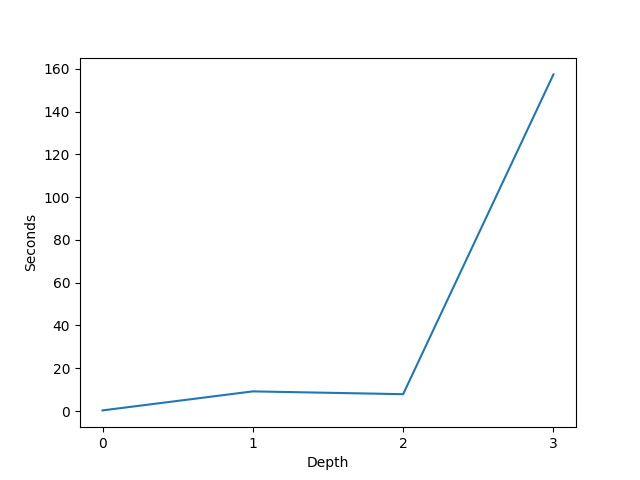
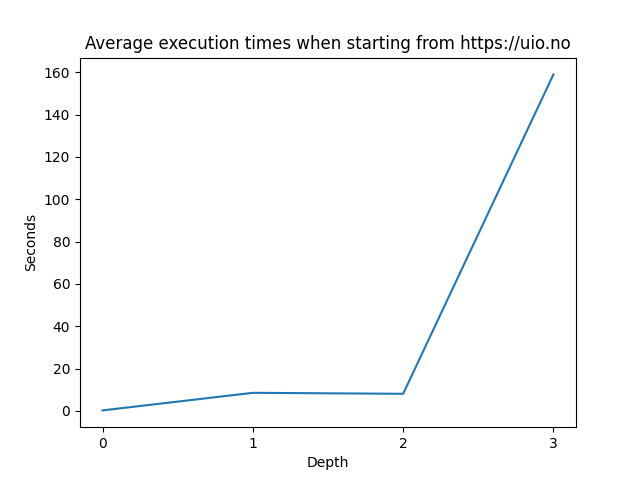
tests

diff --git a/Scraper.py b/Scraper.py
@@ -5,9 +5,7 @@ import lxml.html
 from bs4 import BeautifulSoup
 
 class Scraper:
-    def __init__(self, url: str, depth: int):
-        self.url = url # Url to start scraping at
-        self.depth = depth # Depth of urls to scrape
+    def __init__(self):
         self.common_words = []
         self.urls = []
         self.phone_numbers = []
@@ -16,8 +14,8 @@ class Scraper:
         self.visited_urls = []
         
     
-    def start_scraping(self):
-        self.scrape(self.url, self.depth)
+    def start_scraping(self, url: str, depth: int):
+        self.scrape(url, depth)
     
     def write_to_file(self, input):
         for item in input:
@@ -64,9 +62,6 @@ class Scraper:
             return
 
         content = res.text
-        if (len(content) > 200000):
-            # Site is too big
-            return
         soup = BeautifulSoup(content, features='lxml')
         
         urls = self.find_urls(soup)
@@ -85,50 +80,66 @@ class Scraper:
         else:
             for u in urls:
                 self.scrape(u, current_depth - 1) # Recursively scrape urls when depth > 0
-    
-    def custom_search(self, content: str):
-        result = []
-        for r in self.custom_searches:
-            regex = re.compile(r)
-            result.append((r, regex.findall(content)))
+
+    def find_elements_by_tag(self, url: str, tag: str):
+        # Returns all matching tags
+        result = self.fetch_html(url)
+        if result:
+            soup = BeautifulSoup(result.text, features='lxml')
+            result = soup.find_all(tag)
         return result
     
-    def custom_search_soup(self,soup: BeautifulSoup, search_param: str):
-        # This method finds all occurances of html tag specified by search_param
-        result = soup.find_all(search_param)
+    def find_element_by_id(self, url: str, id: str):
+        result = self.fetch_html(url)
+        if result:
+            soup = BeautifulSoup(result.text, features='lxml')
+            result = soup.find(id=id).prettify()
         return result
+    
+    def find_tag(self, url: str, tag: str):
+        # Returns the first matching tag
+        result = self.fetch_html(url)
+        if result:
+            soup = BeautifulSoup(result.text, features='lxml')
+            result = soup.find(tag)
+        return result
+    
+    def exists(self, url: str, regex: str):
+        # Checks if the regular expression exists on the website
+        result = self.fetch_html(url)
+        if result:
+            r = re.compile(regex, flags=re.MULTILINE)
+            result = r.search(result.text)
+        return bool(result)
 
 
     def find_urls(self, soup: BeautifulSoup):
         a_tags = soup.find_all(
-            'a', href=re.compile(r'(^(http|https)[^\"]+)(?<!\.pdf)$'))
+            'a', href=re.compile(r'(^(http|https)[^\"]+)(?<!\.pdf)$', flags=re.MULTILINE))
         links = [i.get('href') for i in a_tags]
         return links
     
     def find_emails(self, content: str, url: str):
-        # Only finds emails ending with com,org,no,edu or live
-        # Regex also works great here as the emails can be found in many different tags, so BeautifulSoup is not necesarry
         regex = re.compile(
-            r'([a-zA-Z0-9._-]+@[a-zA-Z0-9._-]+\.[a-zA-Z0-9_-]+)')
-        print(url, len(content))
+            r'(\b[a-zA-Z0-9._-]+@[a-zA-Z0-9._-]+\.[a-zA-Z0-9_-]+)', flags=re.MULTILINE)
         e = regex.findall(content)
         emails = [match[0] for match in e]
         return emails
 
     def find_phone_numbers(self, content: str):
-        # I am not using BeautifulSoup for this one because it is simpler to just use a regular expression
         regex = re.compile(
-            r'(((\+4[0-9])\s\d{2}\s\d{2}\s\d{2}\s\d{2})|(\d{2}\s\d{2}\s\d{2}\s\d{2})|((?=href=)\"tel:\d{8}\"))')
-        phone_numbers = [match[0] for match in regex.findall(content)] # I only want the first capture group in each match
+            r'\b((\+?4[0-9]\s?)?(\d{2}\s){3}\d{2})\b', flags=re.MULTILINE)
+        phone_numbers = [match[0] for match in regex.findall(content)]
         return phone_numbers
     
     def find_comments(self, content: str):
-        regex = re.compile(r'(<!--([a-zA-z0-9\s.-_,]+)-->)')
-        comments = [match[1] for match in regex.findall(content)] # I only save the text of the comment
+        regex = re.compile(r'<!--(.*)-->', flags=re.MULTILINE)
+        comments = [match[0] for match in regex.findall(content)] # I only save the text of the comment
         return comments
     
     def find_common_words(self, soup: BeautifulSoup):
-        regex = re.compile(r'[a-zA-Z0-9.,\-!?]+') # only interested in actual words, not symbols
+        # only interested in actual words, not symbols
+        regex = re.compile(r'[a-zA-Z0-9.,\-!?]+', flags=re.MULTILINE)
         text_elements = [list(filter(lambda x: x if regex.match(x)
          else "",i.getText(strip=True).split())) for i in soup.find_all(['p','strong','br', 'span', 'em'])]
         unique_words = []
@@ -157,17 +168,27 @@ class Scraper:
     def get_stats(self):
         urls = self.urls
         emails = self.emails
+        phone_numbers = self.phone_numbers
         total_urls = 0
         total_emails = 0
+        total_phone_numbers = 0
+        avg_phone_numbers = 0
         for item in urls:
             total_urls += len(item[1])
-        avg_ulrs = round(total_urls / len(urls))
+        avg_urls = round(total_urls / len(urls))
         avg_emails = 0
         if len(emails) > 0:
             for email in emails:
                 total_emails += len(email[1])
             avg_emails = round(total_emails / len(emails))
-        print(avg_emails, avg_ulrs)
+        if (len(phone_numbers) > 0):
+            for number in phone_numbers:
+                total_phone_numbers += len(number[1])
+            avg_phone_numbers = round(total_phone_numbers / len(phone_numbers))
+        averages = [avg_urls, avg_emails, avg_phone_numbers]
+        
+        
+        print(avg_emails, avg_urls, avg_phone_numbers)
 
     
 """     def query_search(self, query: str):
@@ -187,11 +208,12 @@ class Scraper:
 
 if __name__ == '__main__':
     start = time.time()
-    s = Scraper(
-        'https://www.uio.no', 1)
-    s.start_scraping()
-    #s.save_result()
+    s = Scraper()
+    """ s.start_scraping('https://www.uio.no', 1)
     end = time.time()
     print(end-start)
-    s.get_stats()
+    s.get_stats() """
+    print(s.find_element_by_id('https://www.uio.no', 'head'))
+    print(s.exists('https://www.uio.no', r'UiO'))
+    print(s.find_elements_by_tag('https://www.uio.no', 'a'))
     

diff --git a/test.py b/test.py
@@ -9,6 +9,30 @@ class Main(unittest.TestCase):
         c.scrape_corona_data()
         self.assertEqual(number_of_entries, len(c.data))
     
+    def test_find_elements_by_tag(self):
+        s = Scraper()
+        res = s.find_elements_by_tag(
+            'https://crawler-test.com/canonical_tags/relative_canonical_tag', 'a')
+        self.assertEqual(len(res), 1)
+    
+    def test_find_elements_by_id(self):
+        s = Scraper()
+        res = s.find_element_by_id(
+            'https://crawler-test.com/canonical_tags/relative_canonical_tag', 'logo')
+        self.assertTrue(res != None)
+    
+    def test_exists(self):
+        s = Scraper()
+        res = s.exists(
+            'https://www.uio.no', r'(Forsiden - Universitetet i Oslo)')
+        self.assertTrue(res)
+    
+    def test_find_tag(self):
+        s = Scraper()
+        res = s.find_tag('https://www.uio.no', 'nav')
+        self.assertTrue(res != None)
+    
+    
 
 
 if __name__=='__main__':

diff --git a/test_time.py b/test_time.py
@@ -3,14 +3,14 @@ import time
 import matplotlib.pyplot as plt
 
 
-def test_time_demand():
+def test_time_demand(url):
     times = []
     max_depth = 4
     for i in range (5):
         l = []
         for depth in range(max_depth):
             start = time.time()
-            s = Scraper('https://en.wikipedia.org/Main_page', depth)
+            s = Scraper(url, depth)
             s.start_scraping()
             end = time.time()
             t = end - start
@@ -28,7 +28,8 @@ def test_time_demand():
     plt.xticks([i for i in range(0, max_depth)])
     plt.xlabel('Depth')
     plt.ylabel('Seconds')
+    plt.title('Average execution time when starting from {}'.format(url))
     plt.savefig('times.png')
 
 if __name__=='__main__':
-    test_time_demand()
+    test_time_demand('https://uio.no')

diff --git a/Corona_scraper.py b/Corona_scraper.py
@@ -5,9 +5,9 @@ from matplotlib import pyplot as plt
 
 class Corona_scraper(Scraper): # This class is an example of how Scraper can be extended for specific cases
     def __init__(self):
-        url = "https://www.worldometers.info/coronavirus/countries-where-coronavirus-has-spread/"
-        depth = 0
-        super().__init__(url, depth)
+        self.url = "https://www.worldometers.info/coronavirus/countries-where-coronavirus-has-spread/"
+        self.depth = 0
+        super().__init__()
         self.data = []
     
     def scrape_corona_data(self):
